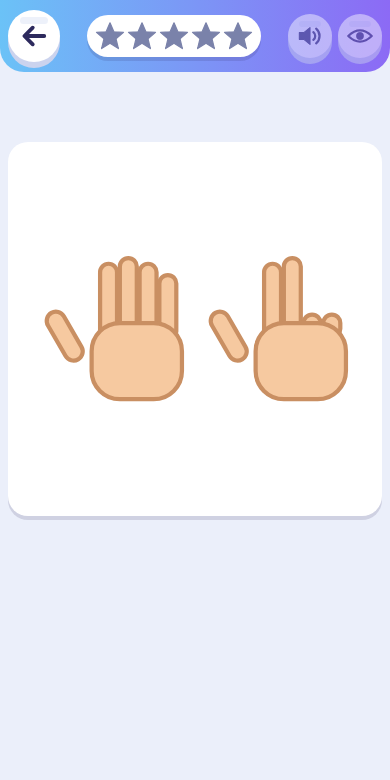
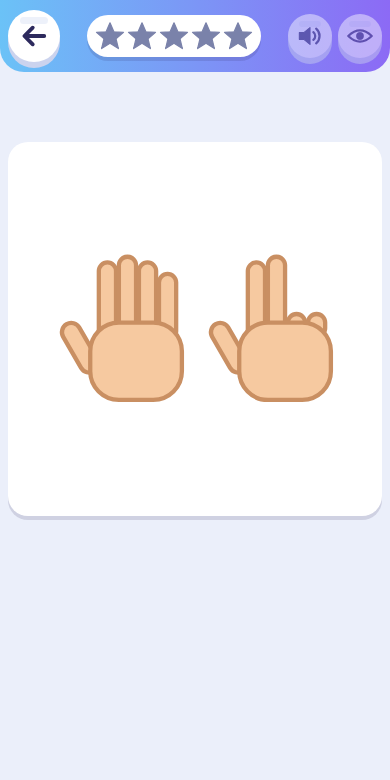
fix: attach the thumb to the palm and tighten the finger picture viewBox (1.9.1)
The raised thumb now grows out of the palm's side (drawn behind it) instead of
floating beside it. The viewBox is fitted to the drawing and .hand scaled to
keep the apparent size. The regression test also asserts the thumb overlaps the
palm. Screenshot retaken.

diff --git a/js/ui/hands.js b/js/ui/hands.js
@@ -1,16 +1,18 @@
 // a cartoon hand with n raised fingers (thumb first, as children count), as SVG markup
 const SKIN = 'fill="#f6c9a0" stroke="#c98f62" stroke-width="3"';
 
+const PALM = `<rect x="18" y="56" width="64" height="54" rx="20" ${SKIN}/>`;
+
 // [x, height] of index, middle, ring and little finger
 const FINGERS = [[24, 46], [38, 50], [52, 46], [66, 38]];
 
 export function handSvgMarkup(n) {
   const thumb = n >= 1
-    ? `<rect class="finger up" x="2" y="44" width="13" height="38" rx="6.5" transform="rotate(-30 8 82)" ${SKIN}/>`
+    ? `<rect class="finger up" x="14" y="52" width="13" height="38" rx="6.5" transform="rotate(-30 20.5 90)" ${SKIN}/>`
     : `<rect class="finger down" x="20" y="72" width="34" height="13" rx="6.5" ${SKIN}/>`;
   const fingers = FINGERS.map(([x, len], i) => (n >= i + 2
     ? `<rect class="finger up" x="${x}" y="${60 - len}" width="12" height="${len + 8}" rx="6" ${SKIN}/>`
     : `<rect class="finger down" x="${x}" y="50" width="12" height="16" rx="6" ${SKIN}/>`)).join('');
-  return `<svg viewBox="-20 0 106 120" xmlns="http://www.w3.org/2000/svg" aria-hidden="true">${fingers}`
-    + `<rect x="18" y="56" width="64" height="54" rx="20" ${SKIN}/>${thumb}</svg>`;
+  return `<svg viewBox="-8 6 94 108" xmlns="http://www.w3.org/2000/svg" aria-hidden="true">${fingers}`
+    + (n >= 1 ? `${thumb}${PALM}` : `${PALM}${thumb}`) + '</svg>';
 }

diff --git a/tests/e2e/hands.spec.js b/tests/e2e/hands.spec.js
@@ -24,6 +24,8 @@ for (const n of [0, 1, 2, 3, 4, 5]) {
         const ys = pts.map((q) => q[1]);
         out.push({
           cls: el.getAttribute('class') || 'palm',
+          thumb: el.hasAttribute('transform'),
+          x0: Math.min(...xs), x1: Math.max(...xs), y0: Math.min(...ys), y1: Math.max(...ys),
           left: Math.min(...xs) - stroke - vb.x,
           top: Math.min(...ys) - stroke - vb.y,
           right: vb.x + vb.width - (Math.max(...xs) + stroke),
@@ -33,6 +35,12 @@ for (const n of [0, 1, 2, 3, 4, 5]) {
       return out;
     }, { n, stroke: STROKE });
     expect(res.length).toBe(6); // 5 fingers or thumb + palm
+    if (n >= 1) { // a raised thumb grows out of the palm: its box overlaps the palm's box (no gap)
+      const thumb = res.find((r) => r.thumb);
+      const palm = res.find((r) => r.cls === 'palm');
+      expect(thumb.x1, 'thumb reaches the palm horizontally').toBeGreaterThan(palm.x0);
+      expect(thumb.y1, 'thumb reaches the palm vertically').toBeGreaterThan(palm.y0);
+    }
     for (const r of res) {
       for (const side of ['left', 'top', 'right', 'bottom']) {
         expect(r[side], `${r.cls} ${side} margin`).toBeGreaterThanOrEqual(0);

diff --git a/css/app.css b/css/app.css
@@ -150,7 +150,7 @@ input:focus-visible, select:focus-visible, button:focus-visible { outline: 3px s
 .compare-row .field { width: calc(44 * min(1cqw, 1cqh)); height: calc(44 * min(1cqw, 1cqh)); outline: 3px dashed rgba(0, 0, 0, 0.08); outline-offset: -3px; border-radius: 16px; }
 .compare-row .obj { width: calc(18% * var(--obj-scale, 1)); height: calc(18% * var(--obj-scale, 1)); }
 .hands { width: 100%; height: 100%; display: flex; align-items: center; justify-content: center; gap: calc(4 * min(1cqw, 1cqh)); }
-.hands .hand { width: calc(40 * min(1cqw, 1cqh)); }
+.hands .hand { width: calc(36 * min(1cqw, 1cqh)); }
 .hands svg { display: block; width: 100%; height: auto; }
 .choice .compare-pick { display: block; width: 56px; height: 44px; border: 3px dashed currentColor; border-radius: 12px; opacity: 0.55; }
 .plus { font-size: calc(14 * min(1cqw, 1cqh)); font-weight: 700; line-height: 1; }

diff --git a/sw.js b/sw.js
@@ -1,5 +1,5 @@
 // PRECACHE-START (generated by tools/update-precache.mjs – do not edit)
-const VERSION = 'c817a01e28';
+const VERSION = '537440088a';
 const PRECACHE = [
   "./",
   "./assets/avatars/astronaut.webp",

diff --git a/CHANGELOG.md b/CHANGELOG.md
@@ -2,7 +2,7 @@
 
 ## [1.9.1] – 2026-10-05
 
-- Fingerbilder: Der Daumen war links abgeschnitten und ist jetzt vollständig zu sehen
+- Fingerbilder: Der Daumen war abgeschnitten und sitzt jetzt an der Hand
 
 ## [1.9.0] – 2026-10-05
 
